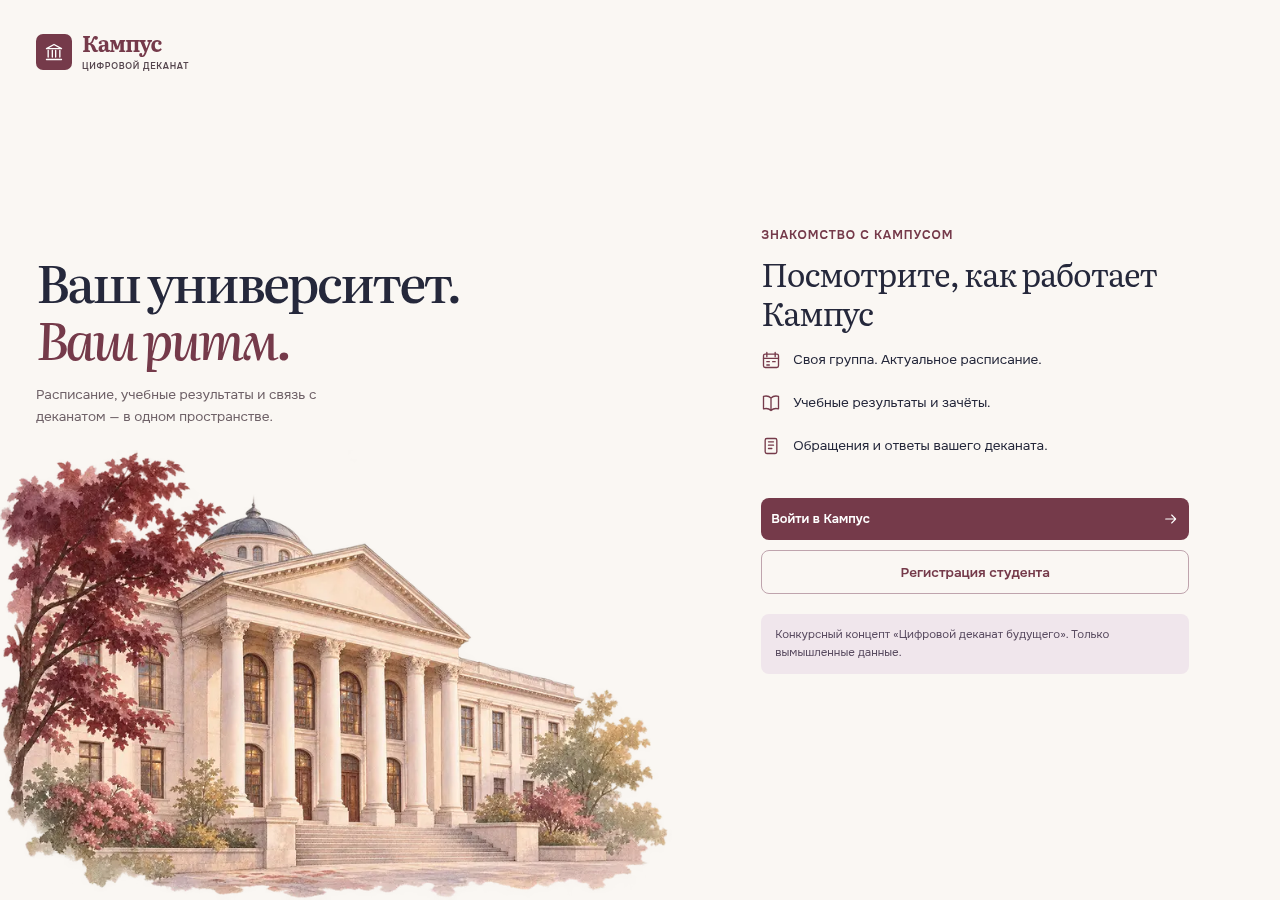
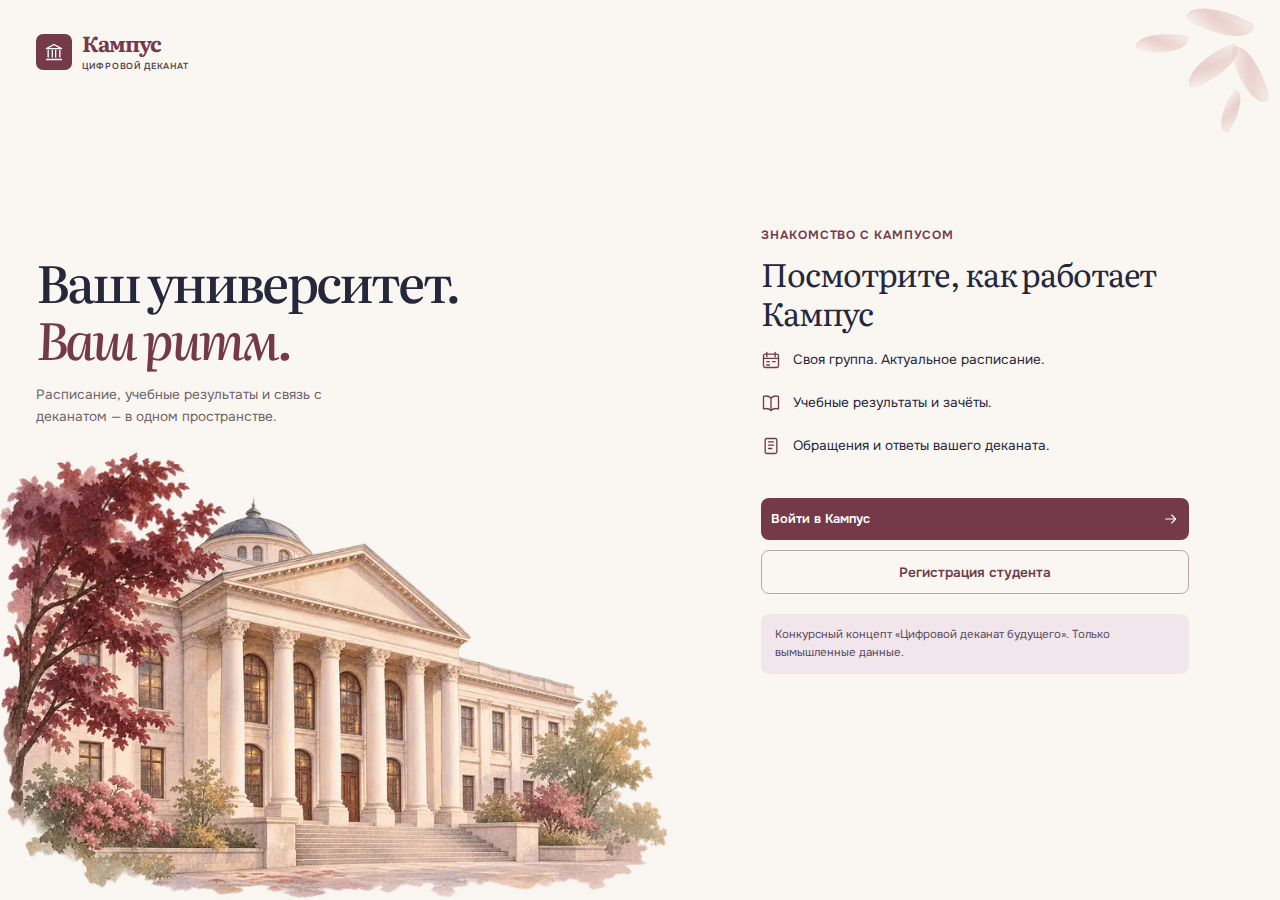
Refresh the Chromium gallery for the mobile day layout

diff --git a/docs/screenshots/issue-59/index.html b/docs/screenshots/issue-59/index.html
@@ -1,1 +1,1 @@
[2 lines of base64/hex data omitted]

diff --git a/tests/e2e/schedule-states.spec.ts b/tests/e2e/schedule-states.spec.ts
@@ -63,7 +63,7 @@ test("Russian fields, real multi-lesson/empty days, and isolated clock boundary 
           ? [
               actual.lessons[0],
               { ...actual.lessons[1], status: "CANCELLED" },
-              { ...actual.lessons[2], title: "Практикум проектирования" },
+              actual.lessons[2],
             ]
           : actual.lessons,
       }),
@@ -168,8 +168,11 @@ test("Russian fields, real multi-lesson/empty days, and isolated clock boundary 
           .filter({ has: status });
         const time = await lesson.locator(".lesson-time").boundingBox();
         const detail = await lesson.locator(".lesson-detail").boundingBox();
-        const badge = await lesson.locator(".lesson-state, .badge").boundingBox();
-        if (!time || !detail || !badge) throw Error(`Missing lesson layout: ${label}`);
+        const badge = await lesson
+          .locator(".lesson-state, .badge")
+          .boundingBox();
+        if (!time || !detail || !badge)
+          throw Error(`Missing lesson layout: ${label}`);
         expect(time.x).toBeLessThan(detail.x);
         expect(Math.abs(badge.x - detail.x)).toBeLessThanOrEqual(1);
         expect(badge.y).toBeGreaterThanOrEqual(detail.y + detail.height - 1);
@@ -193,15 +196,9 @@ test("Russian fields, real multi-lesson/empty days, and isolated clock boundary 
           return Math.abs(range.getBoundingClientRect().top - previousTop);
         }),
       ).toBeLessThanOrEqual(1);
-      const screenshot = await page.screenshot({
+      await page.screenshot({
         path: `test-results/issue59-schedule-day-${width}.png`,
       });
-      if (process.env.GITHUB_WORKFLOW === "Node CI") {
-        for (const [index, chunk] of (screenshot.toString("base64").match(/.{1,4096}/g) ?? []).entries()) {
-          console.log(`CAMPUS59_IMAGE schedule-day-${width} ${index} ${chunk}`);
-        }
-        console.log(`CAMPUS59_END schedule-day-${width} ${screenshot.length}`);
-      }
     }
   }
   await page.unroute("**/api/schedule?*");

diff --git a/tests/e2e/editorial-public.spec.ts b/tests/e2e/editorial-public.spec.ts
@@ -13,17 +13,13 @@ test("Русские публичные экраны сохраняют форм
     await expect(entry).toBeVisible();
     if (width === 1280 && process.env.CAMPUS_VPS_UPGRADE_REHEARSAL !== "1") {
       await expect(page.locator(".landing-watercolor")).toBeVisible();
-      await page.locator(".public-story-copy img").evaluate((img: HTMLImageElement) => img.decode());
+      await page
+        .locator(".public-story-copy img")
+        .evaluate((img: HTMLImageElement) => img.decode());
       await page.evaluate(() => document.fonts.ready);
-      const screenshot = await page.screenshot({
+      await page.screenshot({
         path: "test-results/issue59-landing-default-1280.png",
       });
-      if (process.env.GITHUB_WORKFLOW === "Node CI") {
-        for (const [index, chunk] of (screenshot.toString("base64").match(/.{1,4096}/g) ?? []).entries()) {
-          console.log(`CAMPUS59_IMAGE landing-default-1280 ${index} ${chunk}`);
-        }
-        console.log(`CAMPUS59_END landing-default-1280 ${screenshot.length}`);
-      }
     }
     const bounds = await entry.boundingBox();
     expect(bounds && bounds.y + bounds.height <= 900).toBe(true);

diff --git a/src/app/public-shell.tsx b/src/app/public-shell.tsx
@@ -48,6 +48,7 @@ export function PublicShell({
             width={768}
             height={512}
             priority
+            unoptimized={landing}
           />
         </div>
       </section>

diff --git a/docs/AI_LOG.md b/docs/AI_LOG.md
@@ -481,3 +481,5 @@
 - В финальном сопоставлении с image7 активный Day/Week усилен бордовой заливкой и белым текстом, включая hover; contrast-индикация не зависит от слабой тени. Пересняты после-кадры этой CSS-ревизии, новый exact HEAD проверяется всеми тремя CI.
 
 - Повторное ревью #60: для «Дня» и «Недели» на узком экране используется одна раскладка карточек. На приветствии добавлена полупрозрачная листва в правом верхнем углу. Сценарий Chromium проверяет строки длинного названия и расположение трёх статусов при 360/390 px.
+
+- Браузерный тест выявил, что эмулятор Functions не декодирует URL оптимизатора Next.js на приветствии. Для этого экрана используется существующий локальный PNG напрямую, проверка декодирования сохранена. Кадры повторного ревью сняты в CI на синтетических данных.

diff --git a/docs/screenshots/issue-59/README.md b/docs/screenshots/issue-59/README.md
@@ -6,7 +6,11 @@
 
 GitHub показывает пары ниже. HTML — только галерея этих PNG, не макет приложения; скачать с каталогами before/after и открыть локально. PNG кликабельны в полном разрешении. Мобильная/desktop прокрутка снята отдельно только там, где содержимое действительно длиннее viewport.
 
-## Контактные листы
+## Повторное ревью PR #60
+
+Переснято в Chromium: [schedule-day-360](after/schedule-day-360.png) · [schedule-day-390](after/schedule-day-390.png) · [landing-default-1280](after/landing-default-1280.png). В мобильном режиме «День» один кадр показывает все три статуса с контролируемым временем и тестовой отменой второй пары. [Запуск Node CI](https://github.com/bam-low/mgimo/actions/runs/43952805863).
+
+## Контактные листы до повторного ревью
 
 - [360px](contact-sheets/compare-360.jpg)
 - [390px](contact-sheets/compare-390.jpg)
